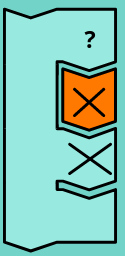
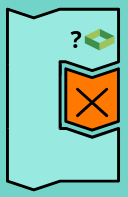
help and level updates

diff --git a/ui/js/walker.js b/ui/js/walker.js
@@ -129,6 +129,7 @@ class Walker {
             return false
           }
 
+          await this.#sleep(this.timing/2)
           if (this.#brain.toString().match(/\d+,\d+,[NEWS]/)) {
             this.#jump_back.push(JSON.stringify(this.field.state_bunny))
             let [wx,wy,wface] = this.#brain.split(',')
@@ -140,12 +141,15 @@ class Walker {
             res = await this.field.jump_forward(this.#brain)
             if (res === false) { return false }
           }
+          await this.#sleep(this.timing/2)
         //}}}
         } else if (v == 'jump_back') { //{{{
           if (this.#jump_back.length > 0) {
+            await this.#sleep(this.timing/2)
             let [wx,wy,wface] = JSON.parse(this.#jump_back.pop())
             res = await this.field.jump(wx,wy,wface)
             if (res === false) { this.assets.say(this.assets.texts.nostep,'div.speech'); return false; }
+            await this.#sleep(this.timing/2)
           } else {
             this.assets.say(this.assets.texts.neverjump,'div.speech')
             return false
@@ -304,10 +308,12 @@ class Walker {
       if (typeof(v) == 'object' && v != null) {
         switch (v.item) {
           case 'jump': //{{{
+            await this.#sleep(this.timing/2)
             this.#jump_back.push(JSON.stringify(this.field.state_bunny))
             let [wx,wy] = v.target.split(',')
             res = await this.field.jump(parseInt(wx),parseInt(wy),this.field.check_dir(wx,wy))
             if (res === false) { this.assets.say(this.assets.texts.nostep,'div.speech'); return false }
+            await this.#sleep(this.timing/2)
             break //}}}
           case 'loop': //{{{
             res = true
